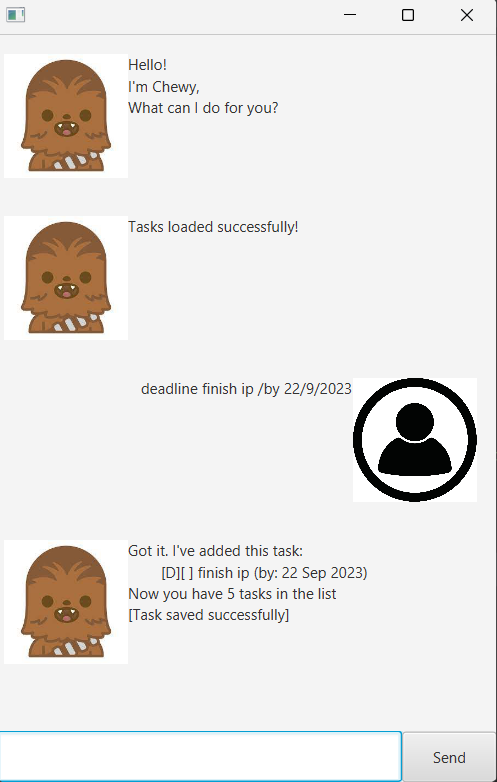
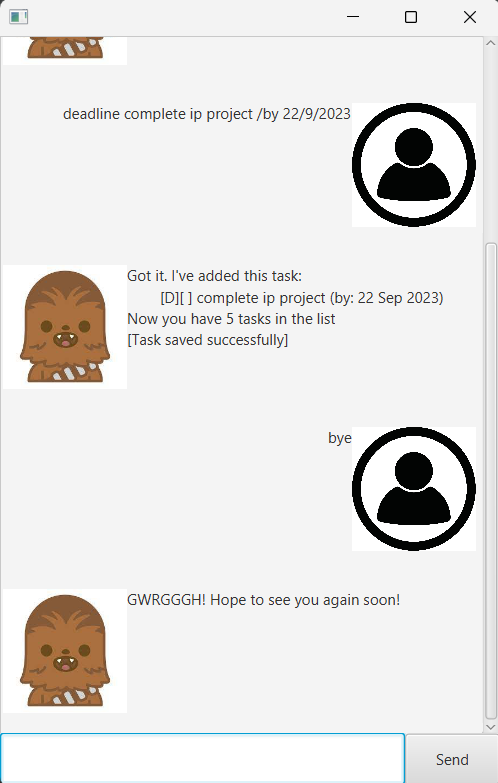
Add Chewbacca emotes to Ui

diff --git a/src/main/java/Tasks/DoAfter.java b/src/main/java/Tasks/DoAfter.java
@@ -15,11 +15,19 @@ public class DoAfter extends Task{
 
     private LocalDate doAfter;
 
+    /**
+     * Creates a new DoAfter task.
+     * @param description The description of the task.
+     * @throws DukeException If the task description is empty or the doAfter date is invalid.
+     */
     public DoAfter(String description) throws DukeException {
         super(description);
         initializeDoAfter();
     }
 
+    /** Initializes the DoAfter task.
+     * @throws DukeException If the task description is empty or the doAfter date is invalid.
+     */
     private void initializeDoAfter() throws DukeException {
         String[] splitString = description.split("/after", 2);
         if (splitString.length != 2) throw new InvalidTaskFormatException();
@@ -30,6 +38,11 @@ public class DoAfter extends Task{
         this.doAfter = super.parseDate(doAfterString);
     }
 
+    /**
+     * Creates a new DoAfter task.
+     * @param description The description of the task.
+     * @param deadlineString The doAfter date of the task in yyyy-MM-dd format.
+     */
     public DoAfter(String description, String deadlineString) {
         super(description);
         // doAfter will be in default yyyy-MM-dd format which can be parsed by LocalDate

diff --git a/src/main/java/Chewy/Ui.java b/src/main/java/Chewy/Ui.java
@@ -15,7 +15,7 @@ public class Ui {
     public String showWelcome() {
         String logo = "I'm Chewy,\n" +
                 "What can I do for you?\n";
-        return "Hello!\n" + logo;
+        return "RRWWWGGG!\n" + logo;
     }
 
     /**
@@ -24,7 +24,7 @@ public class Ui {
      * @return The custom Duke Error message.
      */
     public String showDukeError(DukeException e) {
-        return ":( Chewy can't understand! " + e.getMessage();
+        return ":( rrrr... " + e.getMessage();
     }
 
     /**
@@ -52,7 +52,7 @@ public class Ui {
      * @return The farewell message.
      */
     public String displayFarewellMessage() {
-        return "Bye. Hope to see you again soon!";
+        return "GWRGGGH! Hope to see you again soon!";
     }
 
     /**
@@ -61,6 +61,6 @@ public class Ui {
      * @return a message that shows the exception.
      */
     public String showException(Exception e) {
-        return "Something unexpected happened. try 'help' to see a list of commands";
+        return "GGRRRR! Something unexpected happened. try 'help' to see a list of commands";
     }
 }

diff --git a/src/main/java/Tasks/Task.java b/src/main/java/Tasks/Task.java
@@ -84,6 +84,12 @@ public abstract class Task {
         return this.description.toLowerCase().contains(keyword.toLowerCase());
     }
 
+    /**
+     * Parses the date and time string into a LocalDateTime object.
+     * @param dateTimeString The date and time string in the format "d/M/yyyy h:m a".
+     * @return The LocalDateTime object.
+     * @throws DukeException If the date and time string is in the wrong format.
+     */
     public LocalDateTime parseDateTime(String dateTimeString) throws DukeException {
         DateTimeFormatter formatter = DateTimeFormatter.ofPattern(DATETIME_FORMAT);
         try {
@@ -93,6 +99,12 @@ public abstract class Task {
         }
     }
 
+    /**
+     * Parses the date string into a LocalDate object.
+     * @param dateString The date string in the format "d/M/yyyy".
+     * @return The LocalDate object.
+     * @throws DukeException If the date string is in the wrong format.
+     */
     public LocalDate parseDate(String dateString) throws DukeException {
         DateTimeFormatter formatter = DateTimeFormatter.ofPattern(DATE_FORMAT);
         try {

diff --git a/src/main/java/Tasks/Deadline.java b/src/main/java/Tasks/Deadline.java
@@ -11,11 +11,20 @@ import java.time.format.DateTimeFormatter;
  */
 public class Deadline extends Task {
     private LocalDate deadline;
+
+    /**
+     * Creates a new Deadline object.
+     * @param description The description of the Deadline.
+     * @throws DukeException If the description is empty or the deadline is empty.
+     */
     public Deadline(String description) throws DukeException {
         super(description);
         initializeDeadline();
     }
 
+    /** Initializes the Deadline task.
+     * @throws DukeException If the task description is empty or the deadline date is invalid.
+     */
     private void initializeDeadline() throws DukeException{
         String[] splitString = description.split("/by", 2);
         if (splitString.length != 2) throw new InvalidTaskFormatException();

diff --git a/README.md b/README.md
@@ -1,4 +1,4 @@
-# Chewy.Chewy project template
+# Chewy project template
 
 This is a project template for a greenfield Java project. It's named after the Java mascot _Duke_. Given below are instructions on how to use it.
 
@@ -13,7 +13,7 @@ Prerequisites: JDK 11, update Intellij to the most recent version.
    1. If there are any further prompts, accept the defaults.
 1. Configure the project to use **JDK 11** (not other versions) as explained in [here](https://www.jetbrains.com/help/idea/sdk.html#set-up-jdk).<br>
    In the same dialog, set the **Project language level** field to the `SDK default` option.
-3. After that, locate the `src/main/java/Chewy.Chewy.java` file, right-click it, and choose `Run Chewy.Chewy.main()` (if the code editor is showing compile errors, try restarting the IDE). If the setup is correct, you should see something like the below as the output:
+3. After that, locate the `src/main/java/Chewy.java` file, right-click it, and choose `Run Chewy.main()` (if the code editor is showing compile errors, try restarting the IDE). If the setup is correct, you should see something like the below as the output:
    ```
    Hello from
     ____        _        
